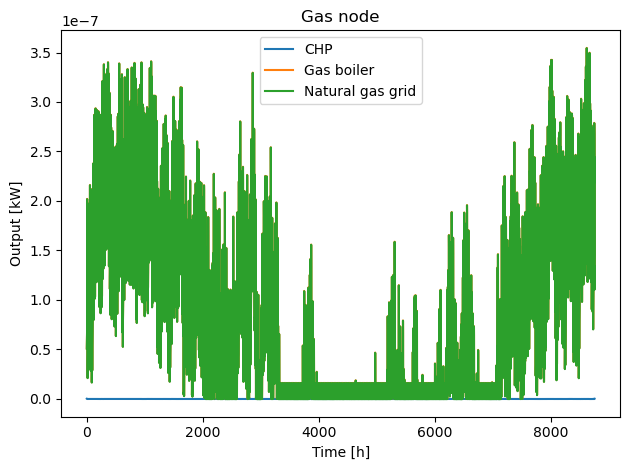
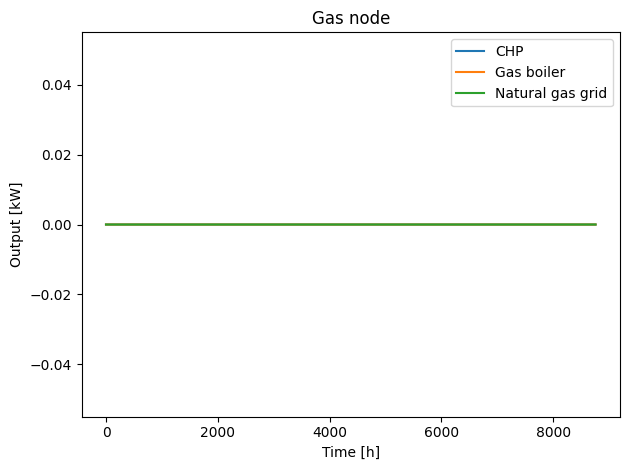
Multi-Objective Analysis

diff --git a/EnergyHub.py b/EnergyHub.py
@@ -283,15 +283,45 @@ constraints = grid_con + gb_con + gshp_con + chp_con + pv_con + wind_con + ts_co
 
 # Select the desired objective
 # ----------------------------
-objective = cost
+#objective = cost
 # objective = co2
 
-prob = cp.Problem(cp.Minimize(objective), constraints)
+#prob = cp.Problem(cp.Minimize(objective), constraints)
 # Optimize the design of the energy system
 # ----------------------------------------
-
 print('Installed solvers:', cp.installed_solvers())
-prob.solve(solver='MOSEK')
+prob.solve(solver='SCIPY')
+
+#Multi Objective Optimization
+eta = [i/10 for i in range(1,10,1)]
+sol_cost = []
+sol_co2 = []
+#initial optimization
+#minimze cost optimal
+prob = cp.Problem(cp.Minimize(cost), constraints)
+prob.solve(solver='SCIPY')
+sol_cost.append(cost.value)
+sol_co2.append(co2.value)
+#minimize co2 optimal
+prob = cp.Problem(cp.Minimize(co2), constraints)
+prob.solve(solver='SCIPY')
+sol_cost.append(cost.value)
+sol_co2.append(co2.value)
+
+for i in eta:
+    print('Multi Objective Optimization with eta = ', i)
+    co2_con = [co2 <= sol_co2[1]+i*(sol_co2[0]-sol_co2[1])]
+    constraints_mo = constraints + co2_con
+    #minimize cost and co2
+    prob = cp.Problem(cp.Minimize(cost), constraints_mo)
+    prob.solve(solver='SCIPY')
+    sol_cost.append(cost.value)
+    sol_co2.append(co2.value)
+
+
+
+print(sol_co2)
+print(sol_cost)
 
 # Output objective function value
 # ================================
